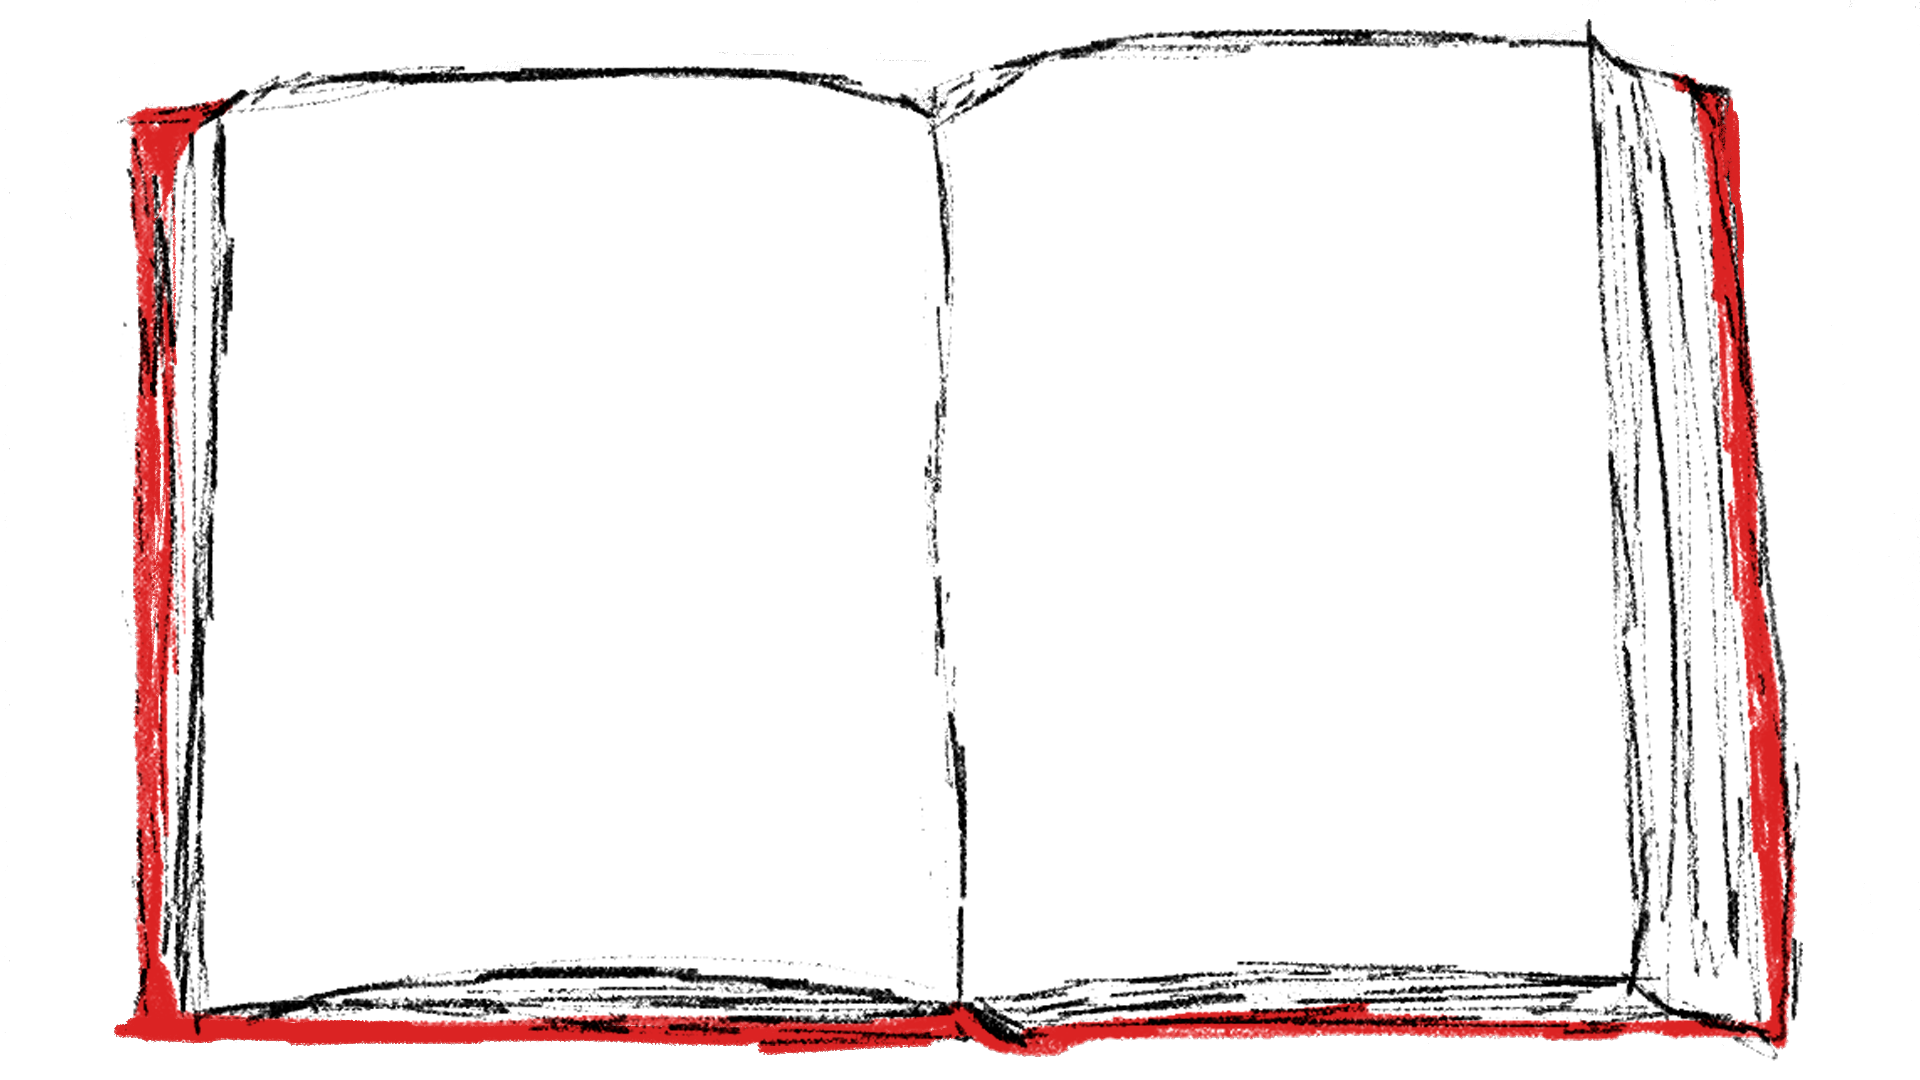
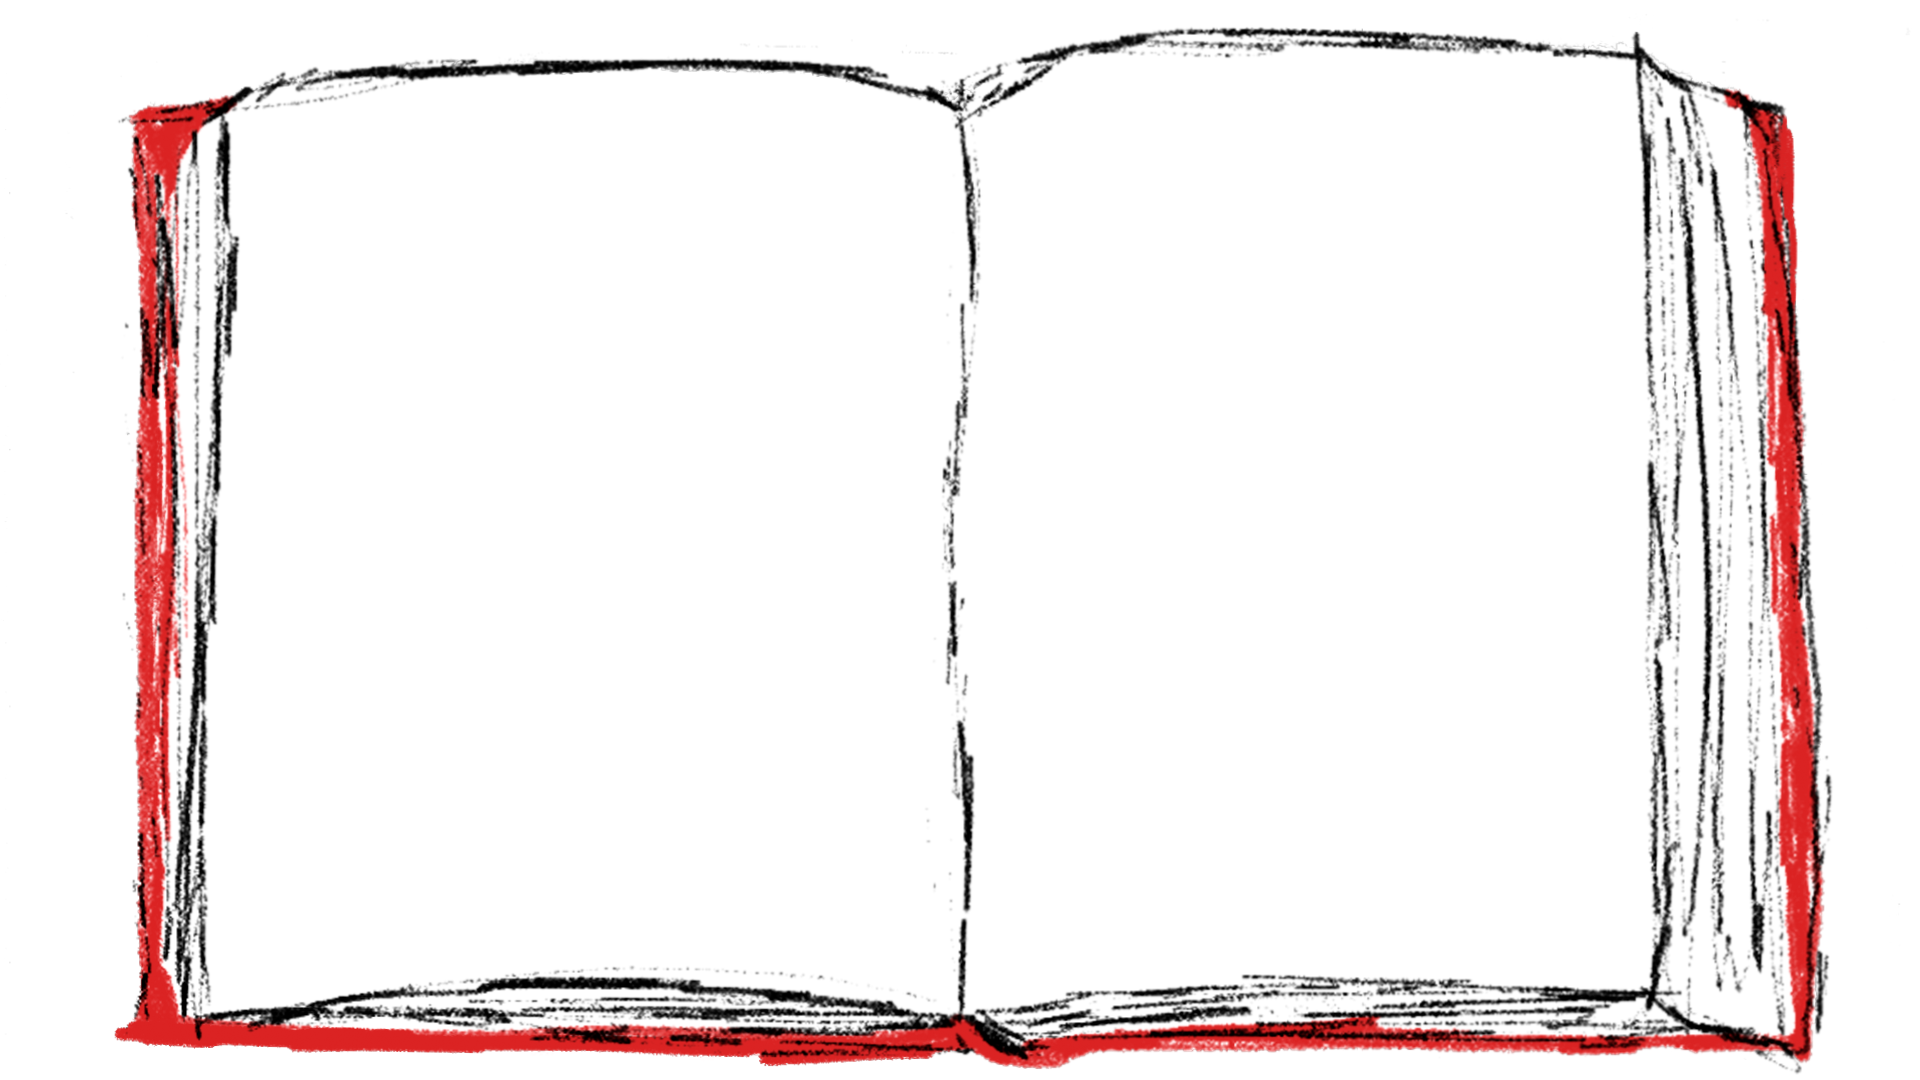
Style.bog stop update
Stop update for at på styling på turn.js til at virke

Changed region(s): [[0.0625, 0.0, 0.9688, 1.0], [0.4688, 0.3056, 0.5312, 0.8861]]

diff --git a/css/style.bog.css b/css/style.bog.css
@@ -4,8 +4,7 @@
     padding: 0;
 }
 body{
-    /*background-image: url(/img/background1.png);*/
-    background-color: blue; /* test for at kontrolere hvor formattering går galt */
+    background-image: url(/img/background1.png);
     background-repeat: no-repeat;
     display: grid;
     place-content: center;
@@ -16,28 +15,25 @@ body{
 
 .blank img {
     position: fixed;
-    bottom: 5%;
-    left: 0;
+    bottom: 1%;
+    left: 1%;
     width: 100vw;      /*stopper overflow*/
-    height: 50vw;      
+    height: 60vw;      
     max-width: 100vw;  
     max-height: 100vh;
 }
 
-.indhold{
-    background-color: blueviolet; /*kontrol til at kunne se omslag*/
-    width: 32vw; /*til at passe til bogens størrelse*/
-    height: 70vh;
-
+.flipbook{
+    width: 75vw; /*til at passe til bogens størrelse*/
+    height: 80vh;
 }
 
-.indhold .omslag{
-    background-color: rgb(52, 43, 226); /*kontrol til at kunne se omslag*/
+.flipbook .hard{
     color: white;/*kontrol til at kunne se test */
 }
 
-.indhold .page{
-    background-color: white; 
+.flipbook .page{
+    background: white;
     display: flex;
     flex-direction: column;
     justify-content: center;
@@ -53,38 +49,43 @@ body{
 
 .side-alt img{
     position: relative;
-    top: 90%;
-    left: 60%;
+    top: 0%;
+    right: 30%;
     padding: 0;
     margin: 0;
     width: 270%;
     height: auto;
 }
 
+.side{
+    display: flex;
+    flex-direction: column;
+    justify-content: center;
+}
 .side img{
     position: relative;
-    top: 0;
-    right: 0%;
-    width: 80%;
+    bottom: 12%;
+    left: 10%;
+    width: 70%;
     margin: 0;
     padding: 0;
     height: auto;
 }
 
 .nav img{
-    right: 0;
+    left: 0;
     top: 0;
-    padding: 0;
     margin: 0;
+    padding: 10%;
 }
 
 .nav{
     display: flex;
     flex-direction: row;
     align-items: center;
+    align-self: center;
     z-index: 1000; /*sørger for knapperne er øverst*/
-    max-width: 300px;
-    max-height: 500px;
+    padding-right: 30%;
 }
 
 

diff --git a/kapiter.html b/kapiter.html
@@ -8,14 +8,14 @@
 </head>
 <body>
     <main class="bog-flip">
-       <!-- <div class="blank">
+        <div class="blank">
             <img src="/img/bog-blank.png" alt="">
-        </div> -->
-        <section class="indhold">
+        </div>
+        <section class="flipbook">
             <!--forside-->
-            <div class="omslag">Test</div>  <!--omslag er forside og bagside sp den "lukkede" bog-->
-            <div class="omslag"></div>
-            <!--Indhold-->
+            <div class="hard">Test</div>  <!--hard er forside og bagside sp den "lukkede" bog-->
+            <div class="hard"></div>
+            <!--flipbook-->
             <div><p>TEST TEST TEST</p></div> <!--checker forside virker-->
             <!--side 1-->
             <div class="side-alt">
@@ -30,13 +30,19 @@
                     <img src="/img/arrow1.2.png" alt="" class="prev-pil">
                 </div>
             </div>
+            <!--side 3-->
+            <div>
+                <p>side3</p>
+            </div>
+            <div class="hard">Test</div>  <!--hard er forside og bagside sp den "lukkede" bog-->
+            <div class="hard"></div>
         </section>
         
     </main>
     <script src="/javascript/jquery.js"></script>
     <script src="/javascript/turn.js"></script>
     <script>
-        $(".indhold").turn();
+        $(".flipbook").turn();
     </script>
 </body>
 </html>
